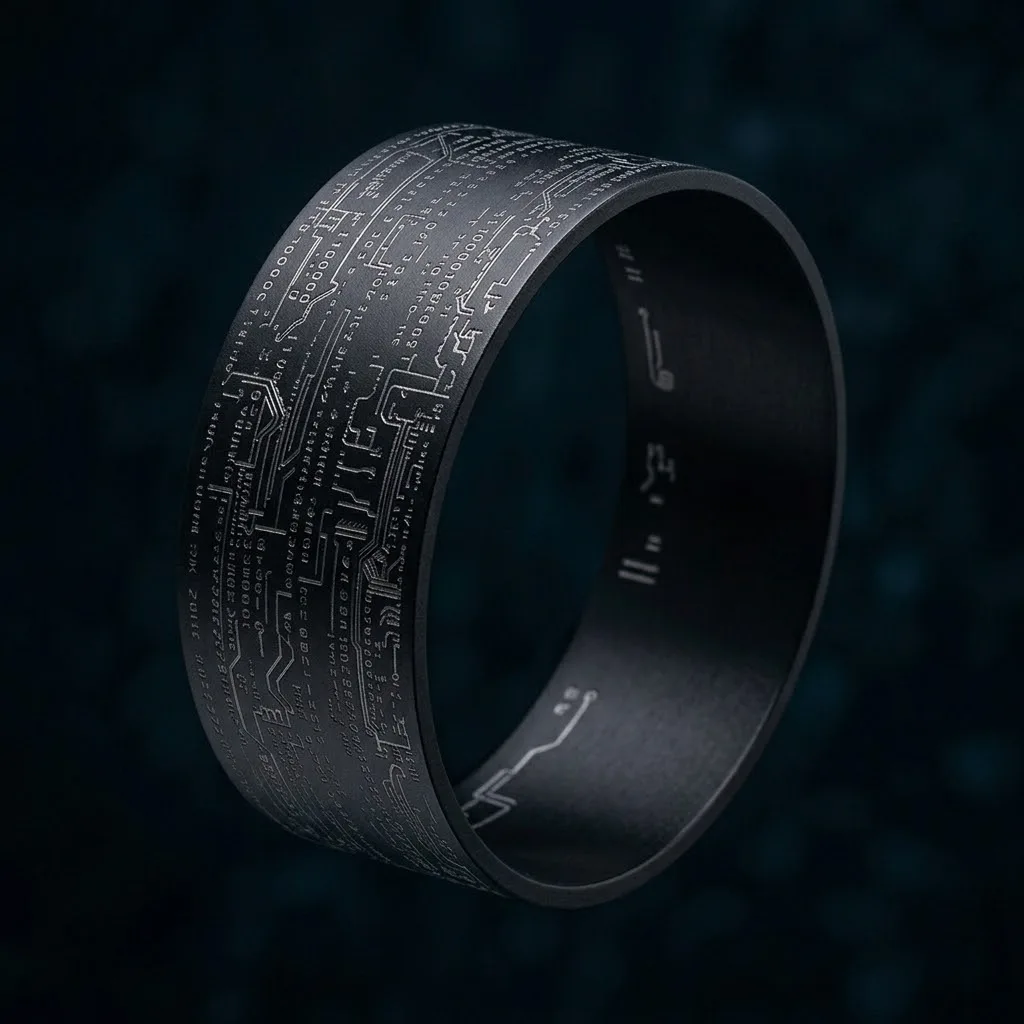
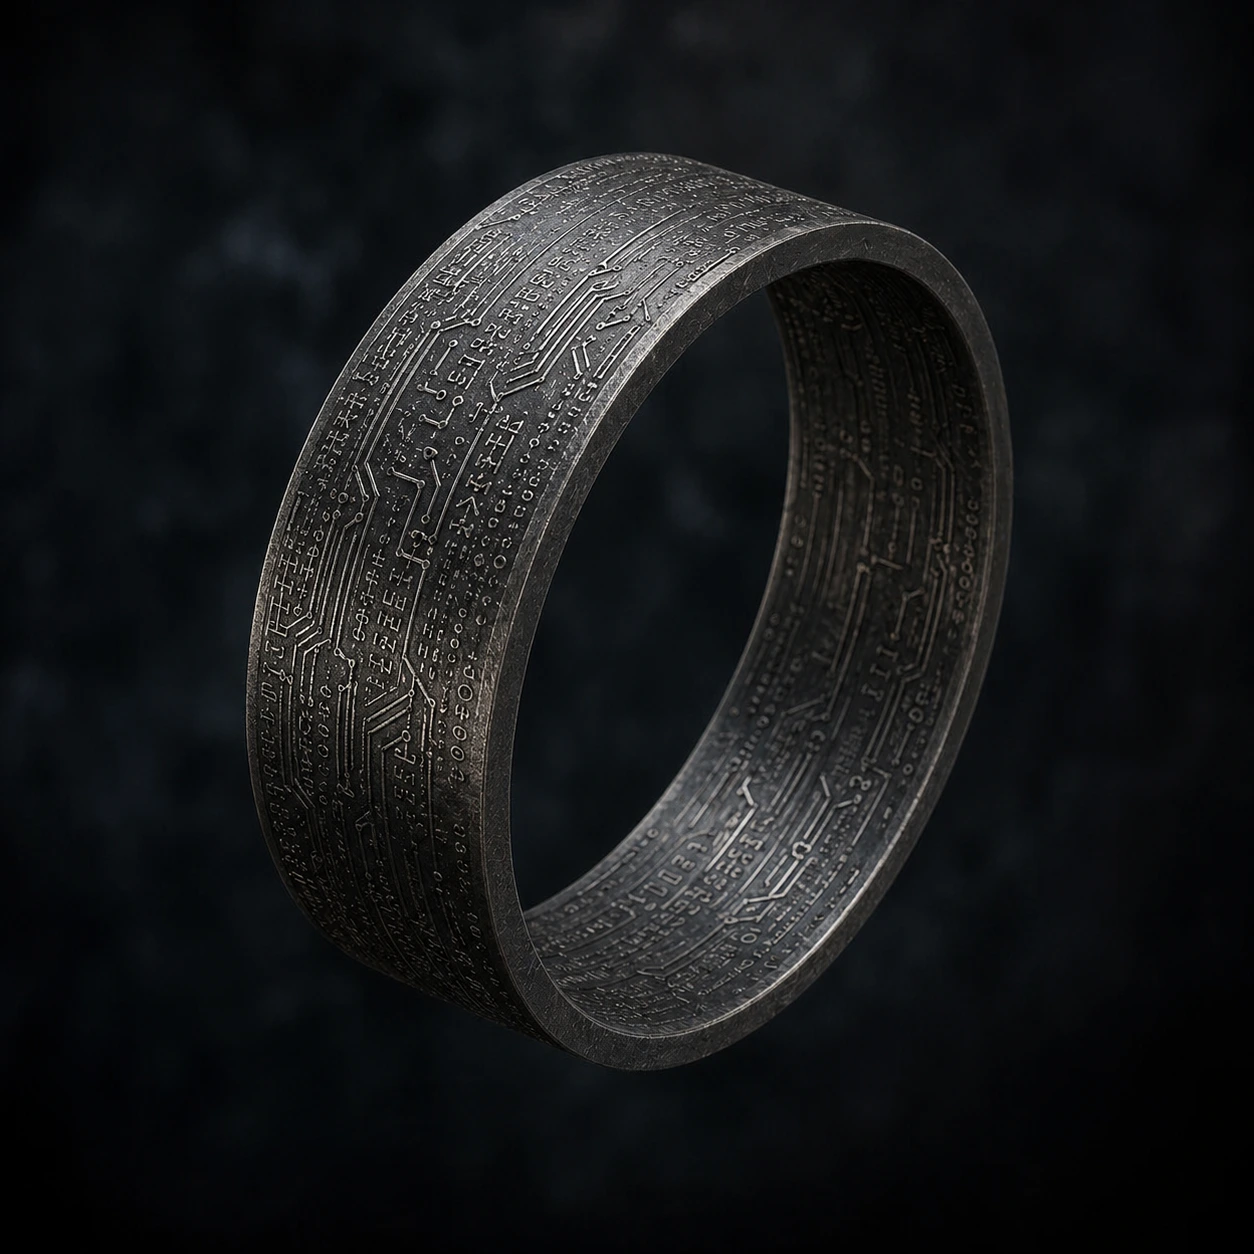
Update bracelet concept art and add Lu Chen test

diff --git a/资源/设定图/次元手环/bracelet-repaint-v1.md b/资源/设定图/次元手环/bracelet-repaint-v1.md
@@ -1,0 +1,45 @@
+# 次元手环设定图反推重绘 · v1
+
+## 对象
+- 次元手环
+- 类型：道具设定图重绘
+- 用途：建立后续道具类统一视觉基线
+- 目标画幅：`1:1`
+
+## 参考来源
+- 公开图：`docs/images/characters/次元手环.webp`
+- 设定文档：`docs/content/profiles/zh/bracelet.md`
+
+## 反推结论
+
+### 保留项
+- 深色暗哑金属环轮廓
+- 无拼接缝隙的整体结构
+- 银灰色微雕线路/图腾复合纹理
+- 单物件悬浮展示、背景低干扰
+
+### 修正项
+- 旧图已经基本符合设定，不需要推翻
+- 新测试主要验证 skill 是否能稳定处理“道具类”而不只是人物/种族
+
+### 强化项
+- 强化“绝对刚体”的非人材料可信度
+- 强化分子层刻线的密度和精度
+- 保持纯图像、档案式展示，不做广告图或海报
+
+## 最终测试图
+- 归档文件：`资源/设定图/次元手环/bracelet-repaint-v1.png`
+- 资料库源图：`资源/源图/图鉴/道具/次元手环.png`
+- Web UI 发布图：`docs/images/characters/次元手环.webp`
+
+## 由脚本生成的主提示词
+
+```text
+Dimensional Bracelet, alien high-dimensional storage artifact concept art, 1:1 square prop setting sheet, single-object dossier image, single object, three-quarter angle, centered, floating archive presentation, 1:1 square frame, bracelet alone, centered, no hand or wrist, clean object focus, seamless solid ring with no visible joints, impossible rigid construction, thick dark metallic band, absolute-rigidity alien material, dark matte metal, dense silver-gray micro-engraved circuit glyphs, molecular-level carved high-dimensional data rails, no extra accessories, no stand, no human context, controlled neutral studio-like archive lighting, subtle rim light to show the engraved surface without turning glossy, minimal dark low-distraction background, realistic concept art, premium sci-fi prop dossier image, 1:1 square pure image only, no text overlays, not a poster, dark matte ring silhouette, seamless geometry, dense engraved silver-gray circuit textures, floating isolated presentation, stronger material credibility, sharper micro-engraving readability, more convincing nonhuman metallurgy, clearer impossible-solid feel
+```
+
+## 负面约束
+
+```text
+human wrist, character hand, glowing fantasy rune, jewelry ad look, poster typography, ui frame, infographic layout, bright neon glow, soft cheap plastic, landscape ratio
+```

diff --git a/资源/设定图/陆辰/luchen-repaint-v1.md b/资源/设定图/陆辰/luchen-repaint-v1.md
@@ -1,0 +1,27 @@
+# 陆辰设定图反推重绘 · v1
+
+## 对象
+- 陆辰
+- 类型：角色设定图重绘测试
+- 用途：验证主角强锁定形象规则
+- 目标画幅：`1:1`
+
+## 参考来源
+- 公开图：`docs/images/characters/陆辰.webp`
+- 设定文档：`docs/content/profiles/zh/luchen.md`
+
+## 反推结论
+
+### 保留项
+- 当前公开图中的脸型、眼神、发型和年龄感
+- 瘦削但危险的体态
+- 破旧粗布衣层与低调生存感
+- 左手腕黑色次元手环
+
+### 修正项
+- 本次不追求大改，只验证是否能在重绘时锁定既有主角形象
+
+### 强化项
+- 皮肤与布料细节更真实
+- 保持“废土孤狼坠入南宋”的压迫感
+- 绝不能跑成古偶男主或海报脸
